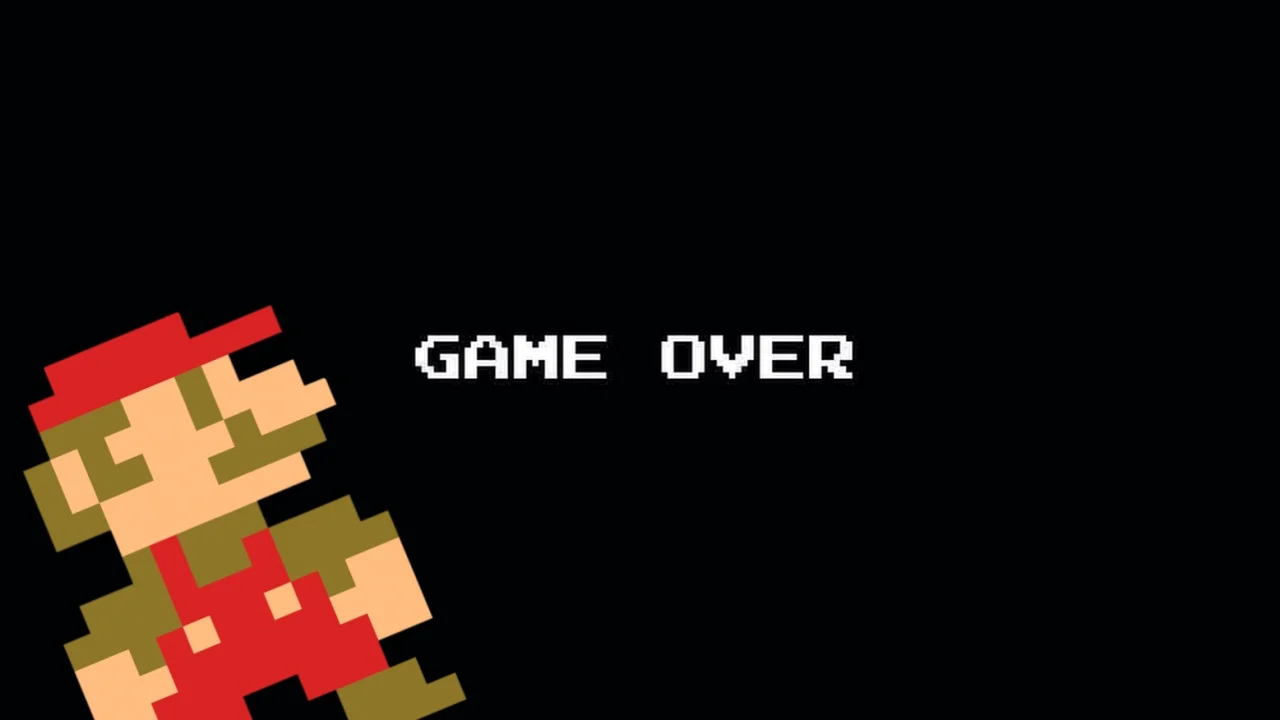
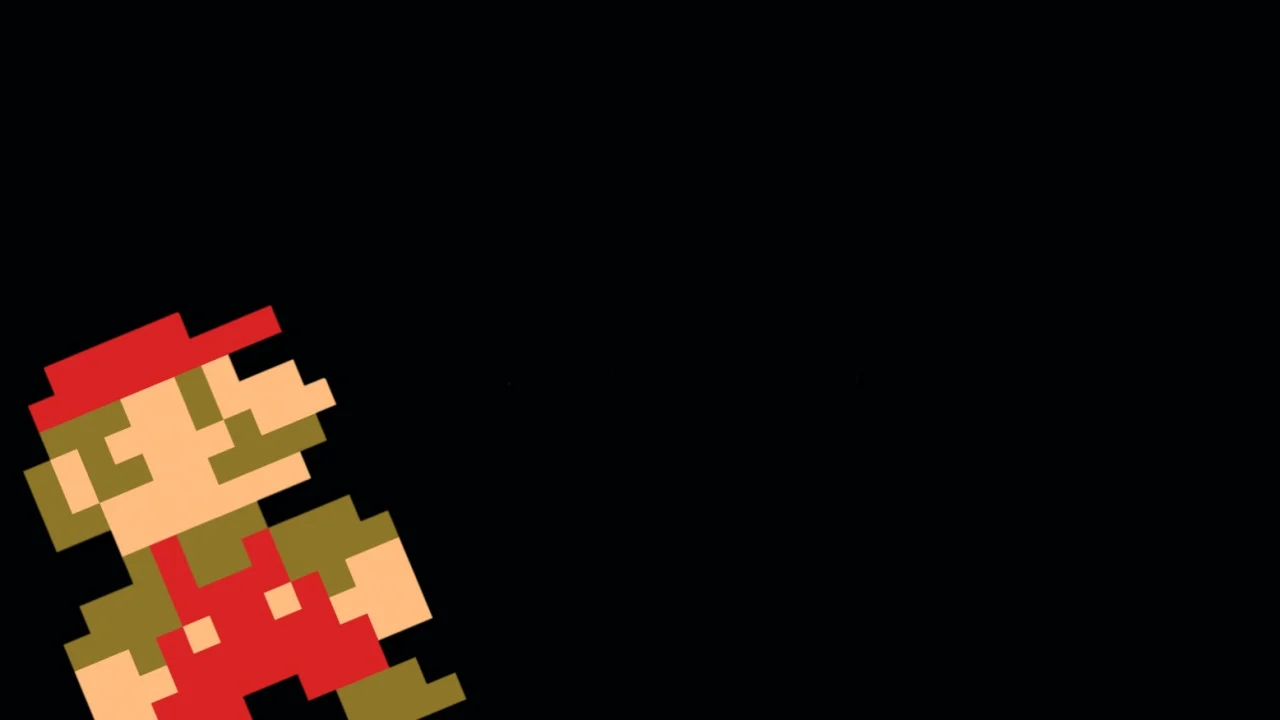
style: changed 404 layout

Changed region(s): [[0.5, 0.4583, 0.6875, 0.55], [0.3125, 0.4583, 0.4688, 0.55]]

diff --git a/static/styles/404.css b/static/styles/404.css
@@ -1,38 +1,38 @@
-
-
-#page404 div{
-    background-color: rgba(27, 41, 57, 0.86); width: 100%; height: 100%;
-    height: 100%;
-    display: flex;
-    flex-direction: column;
-    align-items: flex-end;
-    padding: 0 10%;
+#page404 div {
+  background-color: rgba(27, 41, 57, 0.705);
+  width: 100%;
+  height: 100%;
+  height: 100%;
+  display: flex;
+  flex-direction: column;
+  align-items: flex-end;
+  padding: 0 5%;
 }
 
-#page404 h1{
-    font-family: 'Press Start 2P', cursive;
-    margin: 0;
-    padding: 10% 0 0 0;
-    align-self: center;
-    margin-bottom: 50px;
+#page404 h3 {
+  font-family: "Press Start 2P", cursive;
+  margin: 20px 0;
+  align-self: center;
+  margin-bottom: 30vh;
+  font-size: 2rem;
 }
 
-#page404 h1 span{
-    font-family: 'Press Start 2P', cursive;
-    color: rgb(119, 0, 0)
+#page404 h3 span {
+  font-family: "Press Start 2P", cursive;
+  color: rgb(119, 0, 0);
 }
 
-#page404 h2{
-    font-size: 50px;
-    font-family: 'Press Start 2P', cursive;
-    margin: 0;
-    padding: 3rem;
-    margin-bottom: 15%;
+#page404 h2 {
+  text-align: center;
+  font-size: 3.5rem;
+  font-family: "Press Start 2P", cursive;
+  padding: 3rem;
+  padding: 10% 0 0 0;
+  margin-bottom: 7vh;
 }
 
-#page404 p{
-    font-family: Arial, Helvetica, sans-serif;
-    width: 60%;
-    font-size: 20px;
+#page404 p {
+  font-family: Arial, Helvetica, sans-serif;
+  width: 60%;
+  font-size: 20px;
 }
-

diff --git a/templates/404.html b/templates/404.html
@@ -1,17 +1,16 @@
-{% extends "layout.html" %} {% block title %} 404 {% endblock
-%} {% block content %}
-<div id="page404" style="background-image: url({{ url_for('static', filename='img/game-over.png') }}); background-repeat: no-repeat; background-size: cover;   height: 100%;"
+{% extends "layout.html" %} {% block title %} 404 - Not Found {% endblock %} {%
+block content %}
+<div
+  id="page404"
+  style="background-image: url({{ url_for('static', filename='img/game-over.png') }}); background-repeat: no-repeat; background-size: cover;   height: 100%;"
 >
   <div>
-    <h1> <span>      404    </span>     - Not Found</h1>
-  <h2 >Oh no! Looks like Princess Peach is in another castle!</h2>
+    <h2>Oh no! Looks like our Princess is in another castle!</h2>
+    <h3><span> 404 </span> - Not Found</h3>
     <p>
       Sorry, but the page you're looking for isn't here. Please check the URL or
       <a href="/">return to Homepage!</a>.
     </p>
-    
-
-    
   </div>
 </div>
 {% endblock %}
